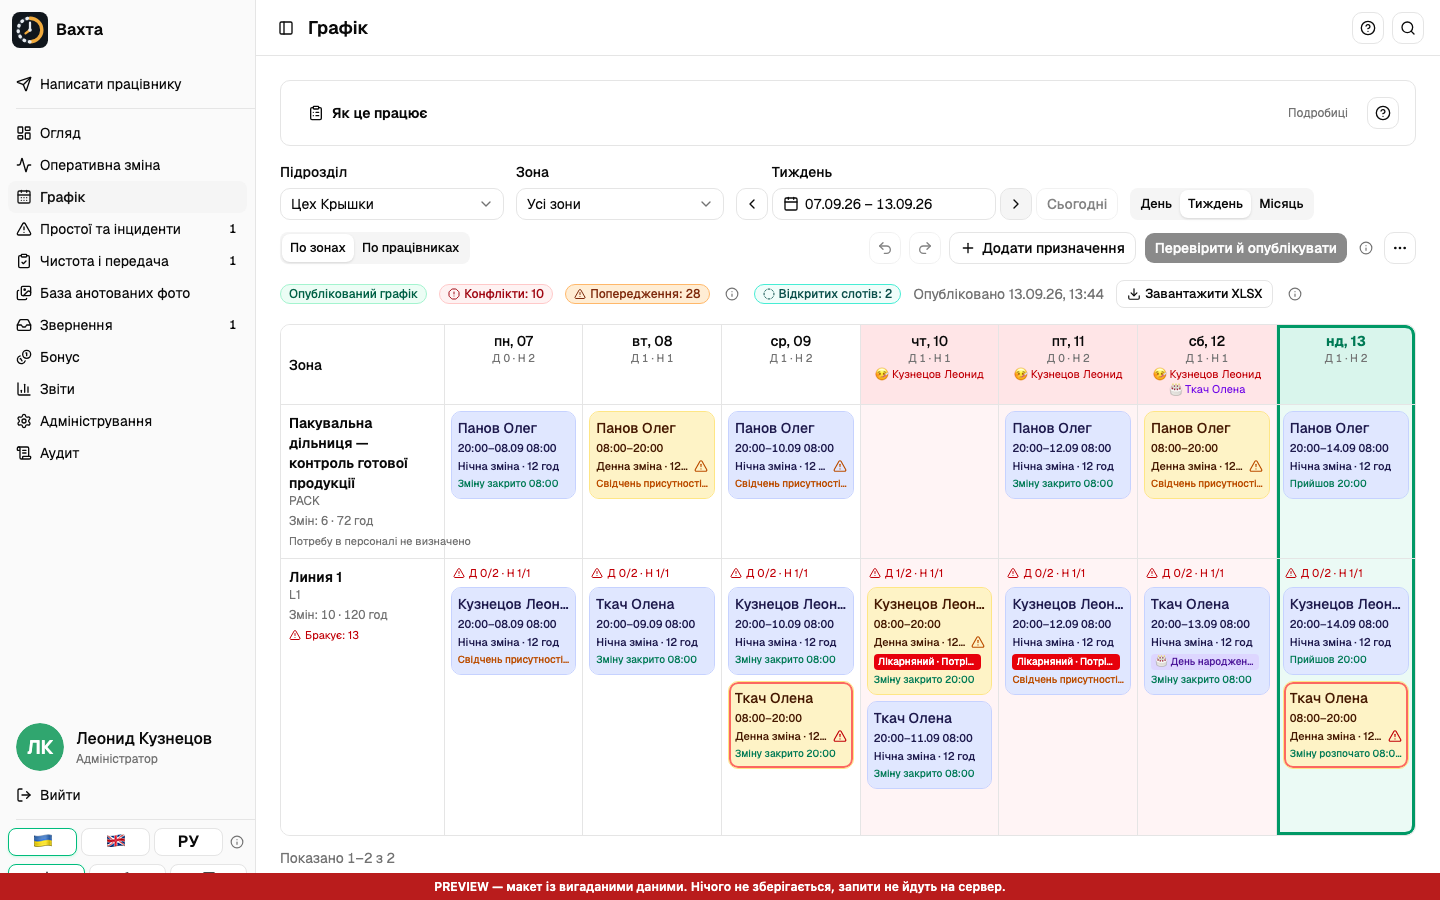
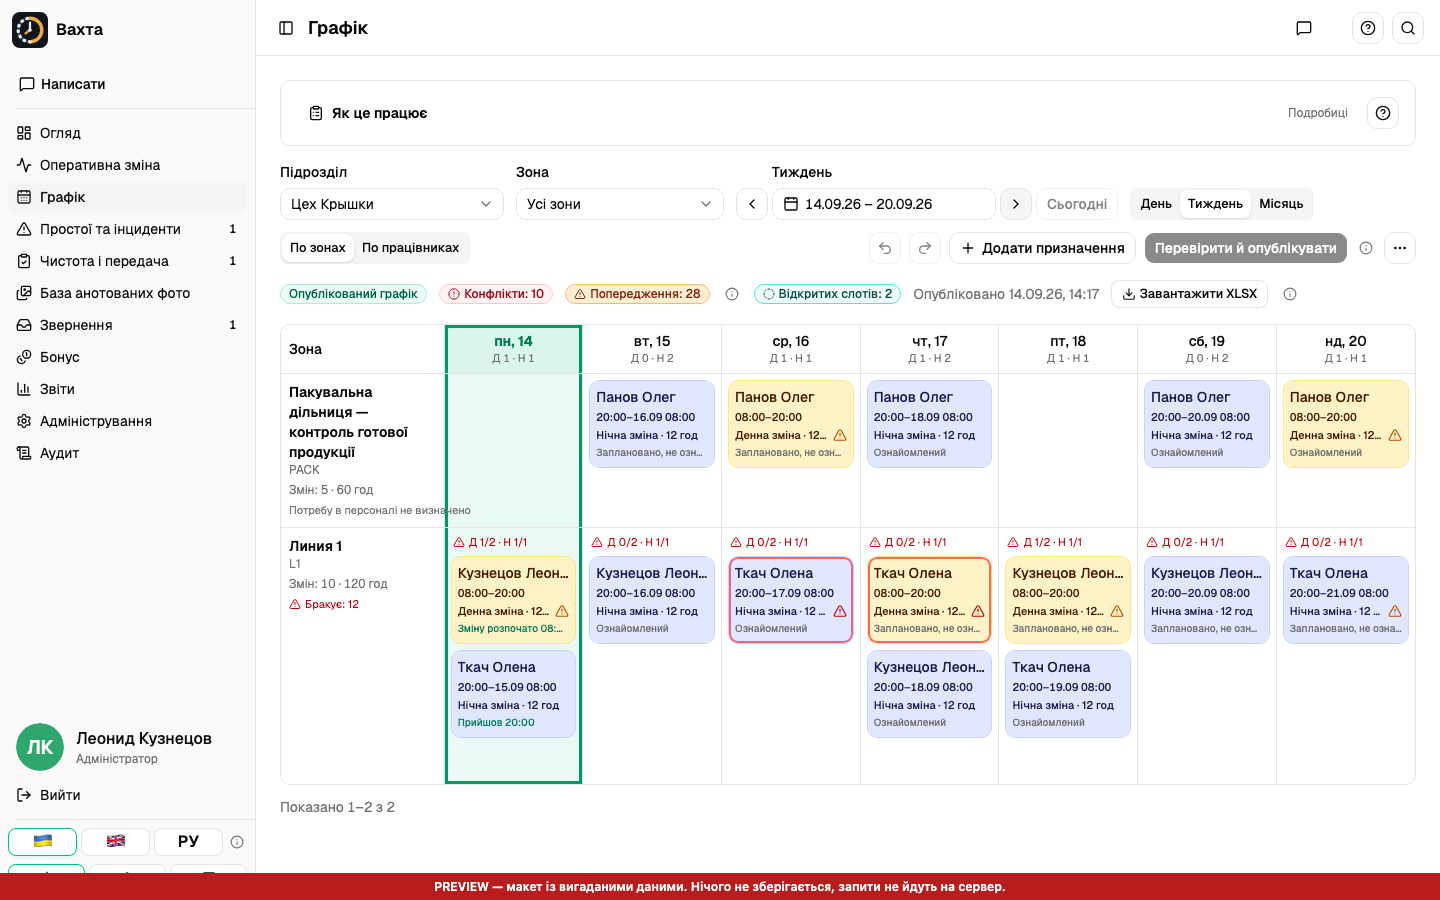
fix(schedule): approved absences in neutral slate, red kept for danger
Vacation and sick-leave columns and chips read as a calm fact in slate; a
shift that still needs a replacement is an orange attention chip; pending
requests stay orange. Red now means a blocking conflict or a shortage only.

diff --git a/apps/admin-web/src/features/schedule-management/model/calendar.ts b/apps/admin-web/src/features/schedule-management/model/calendar.ts
@@ -291,7 +291,7 @@ export function calendarModel(input: CalendarInput): CalendarViewModel {
       messages(input.locale).requests.types[absence.type as keyof Messages['requests']['types']] ??
       absence.type;
     return absence.status === 'APPROVED'
-      ? { text: format(t.absenceApproved, { type }), tone: 'danger' }
+      ? { text: format(t.absenceApproved, { type }), tone: 'muted' }
       : { text: format(t.absencePending, { type }), tone: 'muted' };
   };
   const cellNote = (zoneId: string, date: string): CalendarNote | undefined => {
@@ -466,9 +466,9 @@ export function eventFlags(
   employeeId: string,
   date: string,
   t: Messages['scheduleWorkspace'],
-): { label: string; tone: 'danger' | 'warn' | 'info' }[] {
+): { label: string; tone: 'absence' | 'warn' | 'info' }[] {
   if (!events) return [];
-  const flags: { label: string; tone: 'danger' | 'warn' | 'info' }[] = [];
+  const flags: { label: string; tone: 'absence' | 'warn' | 'info' }[] = [];
   const absence = events.absences.find(
     (row) => row.employeeId === employeeId && row.from <= date && date <= row.to,
   );
@@ -483,9 +483,11 @@ export function eventFlags(
       (row) => row.employeeId === employeeId && row.businessDate === date,
     );
     flags.push(
-      absence.status === 'APPROVED'
-        ? { label: replacement ? `${type} · ${t.needsReplacement}` : type, tone: 'danger' }
-        : { label: `${type} · ${t.absencePendingShort}`, tone: 'warn' },
+      absence.status !== 'APPROVED'
+        ? { label: `${type} · ${t.absencePendingShort}`, tone: 'warn' }
+        : replacement
+          ? { label: `${type} · ${t.needsReplacement}`, tone: 'warn' }
+          : { label: type, tone: 'absence' },
     );
   }
   if (events.birthdays.some((row) => row.employeeId === employeeId && row.date === date))

diff --git a/apps/admin-web/src/shared/ui/resource-calendar/resource-calendar.tsx b/apps/admin-web/src/shared/ui/resource-calendar/resource-calendar.tsx
@@ -70,17 +70,17 @@ export type CalendarEmphasis = 'unpublished' | 'WARN' | 'BLOCK';
 /** Translucent column tints by day event; the header text and icons carry the meaning. */
 const HEADER_TINT = {
   holiday: 'bg-sky-500/15 dark:bg-sky-400/20',
-  absence: 'bg-red-500/12 dark:bg-red-400/20',
+  absence: 'bg-slate-500/12 dark:bg-slate-400/20',
   birthday: 'bg-violet-500/15 dark:bg-violet-400/20',
 } as const;
 const COLUMN_TINT = {
   holiday: 'bg-sky-500/6 dark:bg-sky-400/10',
-  absence: 'bg-red-500/5 dark:bg-red-400/10',
+  absence: 'bg-slate-500/6 dark:bg-slate-400/10',
   birthday: 'bg-violet-500/6 dark:bg-violet-400/10',
 } as const;
 const EVENT_TEXT = {
   holiday: 'text-sky-700 dark:text-sky-300',
-  absence: 'text-red-700 dark:text-red-300',
+  absence: 'text-slate-600 dark:text-slate-300',
   birthday: 'text-violet-700 dark:text-violet-300',
 } as const;
 function emphasized(item: CalendarItem, emphasis: CalendarEmphasis): boolean {
@@ -123,7 +123,8 @@ function ItemContent({ item }: { readonly item: CalendarItem }) {
           key={flag.label}
           className={cn(
             'mt-0.5 mr-1 inline-block max-w-full truncate rounded px-1 text-[10px] leading-4 font-medium',
-            flag.tone === 'danger' && 'bg-red-600 text-white dark:bg-red-500 dark:text-red-950',
+            flag.tone === 'absence' &&
+              'bg-slate-200 text-slate-800 dark:bg-slate-700 dark:text-slate-100',
             flag.tone === 'warn' &&
               'bg-orange-200 text-orange-900 dark:bg-orange-900 dark:text-orange-100',
             flag.tone === 'info' &&

diff --git a/apps/admin-web/src/shared/ui/resource-calendar/model.ts b/apps/admin-web/src/shared/ui/resource-calendar/model.ts
@@ -17,7 +17,11 @@ export interface CalendarItem {
   /** Operational state under the card, for example presence evidence; text plus tone, never color alone. */
   readonly marker?: { readonly label: string; readonly tone: 'ok' | 'muted' | 'danger' };
   /** Event chips on the card, for example "Sick leave · needs replacement"; text plus tone. */
-  readonly flags?: readonly { readonly label: string; readonly tone: 'danger' | 'warn' | 'info' }[];
+  /** Chips under the text: absence is a neutral fact, warn asks for attention, info is a greeting. */
+  readonly flags?: readonly {
+    readonly label: string;
+    readonly tone: 'absence' | 'warn' | 'info';
+  }[];
 }
 export type CalendarNoteTone = 'danger' | 'ok' | 'muted';
 export interface CalendarNote {
